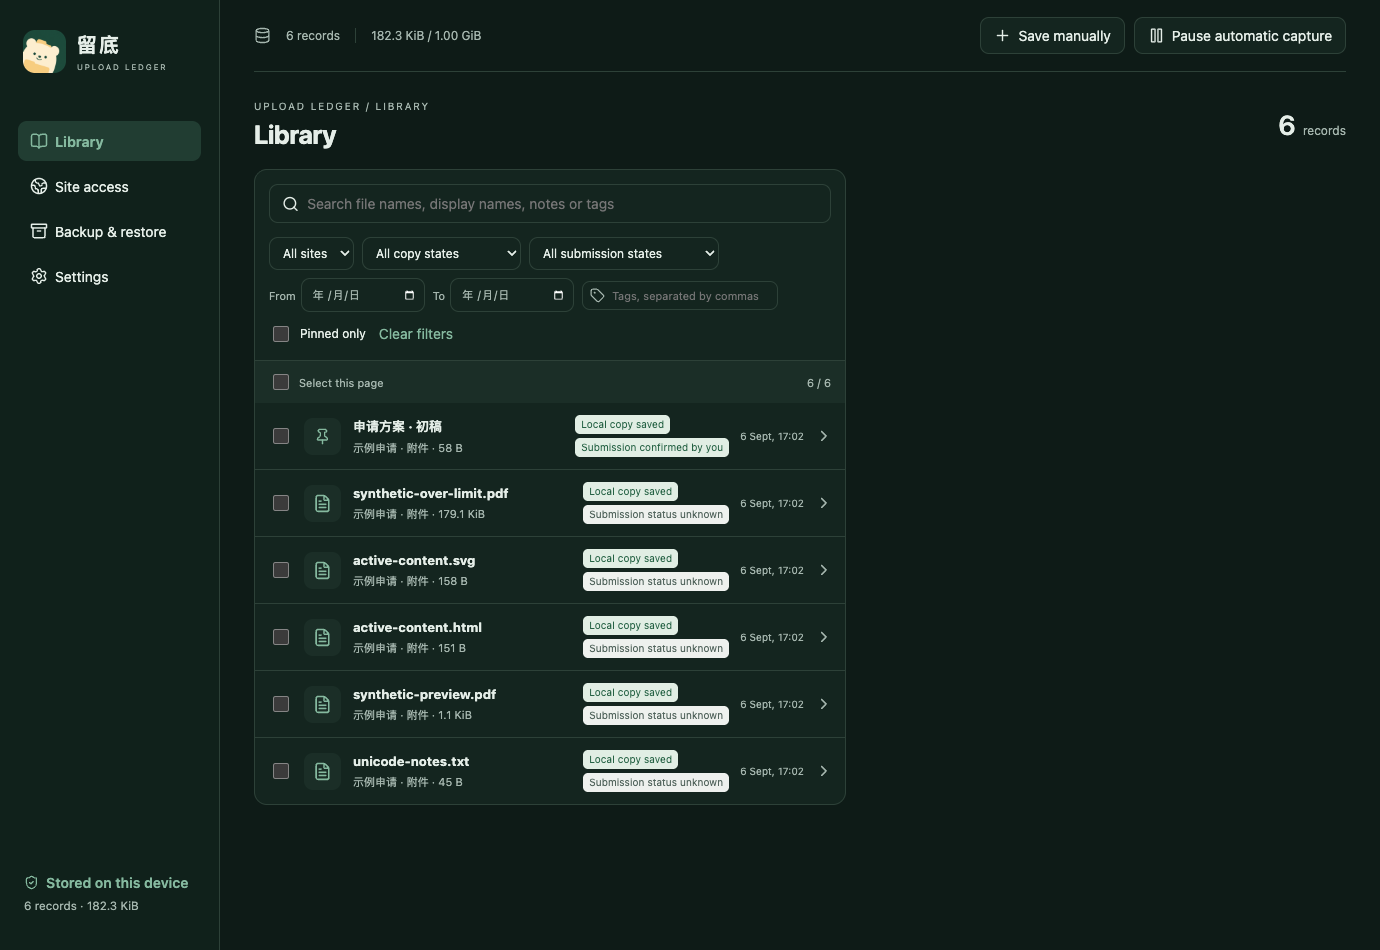
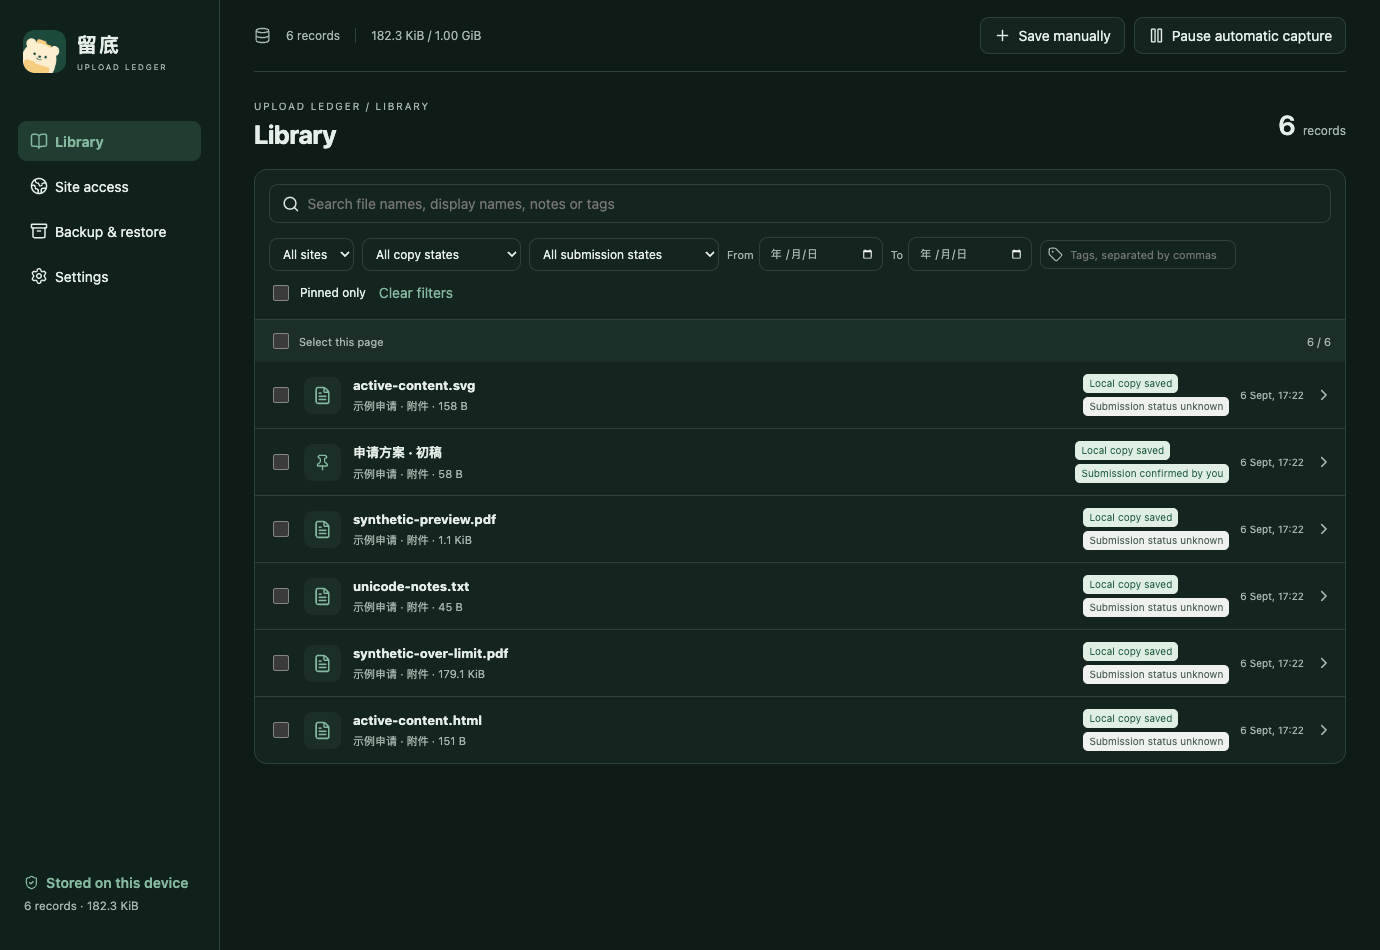
Preserve independent drafts across refreshes and verify concurrent UI edits

diff --git a/app/src/ui/Details.tsx b/app/src/ui/Details.tsx
@@ -273,37 +273,47 @@ export function Detail({
   );
   const [busy, setBusy] = useState(false);
   const [error, setError] = useState("");
-  const [dirty, setDirty] = useState(false);
-  const [draftRevision, setDraftRevision] = useState(record.revision);
-  const loadedId = useRef(record.recordId);
+  const dirty = useRef({ fields: false, submission: false });
+  const revisions = useRef({
+    fields: record.revision,
+    submission: record.revision,
+  });
+  const syncDraft = (next: StoredRecord) => {
+    if (!dirty.current.fields) {
+      setLabel(next.user.label || "");
+      setNote(next.user.note);
+      setTags(next.user.tags.join(", "));
+      setPinned(next.user.pinned);
+      revisions.current.fields = next.revision;
+    } else if (revisions.current.fields !== next.revision)
+      setError(t("draftConflict"));
+    if (!dirty.current.submission) {
+      setSubmission(next.submission.state);
+      revisions.current.submission = next.revision;
+    } else if (revisions.current.submission !== next.revision)
+      setError(t("draftConflict"));
+  };
   useEffect(() => {
-    if (loadedId.current !== record.recordId) {
-      loadedId.current = record.recordId;
-      setDirty(false);
-      setLabel(record.user.label || "");
-      setNote(record.user.note);
-      setTags(record.user.tags.join(", "));
-      setPinned(record.user.pinned);
-      setSubmission(record.submission.state);
-      setDraftRevision(record.revision);
-      return;
-    }
-    if (dirty) {
-      if (record.revision !== draftRevision) setError(t("changedError"));
-      return;
-    }
-    setLabel(record.user.label || "");
-    setNote(record.user.note);
-    setTags(record.user.tags.join(", "));
-    setPinned(record.user.pinned);
-    setSubmission(record.submission.state);
-    setDraftRevision(record.revision);
+    syncDraft(record);
   }, [record.recordId, record.revision]);
-  const perform = async (fn: () => Promise<unknown>, message?: string) => {
+  const perform = async (
+    kind: "fields" | "submission",
+    fn: () => Promise<StoredRecord>,
+    message?: string,
+  ) => {
     setBusy(true);
     setError("");
+    const expectedRevision = revisions.current[kind];
     try {
-      await fn();
+      const updated = await fn();
+      dirty.current[kind] = false;
+      // A successful local write can advance another local draft based on the
+      // same revision. A draft already stale before this write keeps its conflict.
+      const other = kind === "fields" ? "submission" : "fields";
+      if (revisions.current[other] === expectedRevision)
+        revisions.current[other] = updated.revision;
+      setError("");
+      syncDraft(updated);
       await onRefresh();
       if (message) announce(message);
     } catch (reason) {
@@ -365,6 +375,16 @@ export function Detail({
         <div className="alert error" role="alert">
           <CircleAlert size={17} />
           <span>{error}</span>
+          <button
+            disabled={busy}
+            onClick={() => {
+              dirty.current = { fields: false, submission: false };
+              syncDraft(record);
+              setError("");
+            }}
+          >
+            {t("reloadRecord")}
+          </button>
         </div>
       )}
       <div className="state-cards">
@@ -420,10 +440,12 @@ export function Detail({
         <h3>{t("updateSubmission")}</h3>
         <select
           aria-label={t("submitState")}
+          disabled={busy}
           value={submission}
-          onChange={(event) =>
-            setSubmission(event.target.value as SubmissionState)
-          }
+          onChange={(event) => {
+            dirty.current.submission = true;
+            setSubmission(event.target.value as SubmissionState);
+          }}
         >
           {(
             [
@@ -443,21 +465,24 @@ export function Detail({
           disabled={busy || submission === record.submission.state}
           onClick={() =>
             void perform(
-              () =>
-                command(
-                  "UI_SET_SUBMISSION",
-                  {
-                    records: [
-                      {
-                        recordId: record.recordId,
-                        expectedRevision: record.revision,
-                      },
-                    ],
-                    state: submission,
-                    note: null,
-                  },
-                  epoch,
-                ),
+              "submission",
+              async () =>
+                (
+                  await command<{ records: StoredRecord[] }>(
+                    "UI_SET_SUBMISSION",
+                    {
+                      records: [
+                        {
+                          recordId: record.recordId,
+                          expectedRevision: revisions.current.submission,
+                        },
+                      ],
+                      state: submission,
+                      note: null,
+                    },
+                    epoch,
+                  )
+                ).records[0],
               t("save"),
             )
           }
@@ -471,8 +496,13 @@ export function Detail({
           {t("label")}
           <input
             maxLength={120}
+            disabled={busy}
+            aria-label={t("label")}
             value={label}
-            onChange={(event) => setLabel(event.target.value)}
+            onChange={(event) => {
+              dirty.current.fields = true;
+              setLabel(event.target.value);
+            }}
           />
         </label>
         <label>
@@ -480,22 +510,36 @@ export function Detail({
           <textarea
             maxLength={4000}
             rows={4}
+            disabled={busy}
+            aria-label={t("note")}
             value={note}
-            onChange={(event) => setNote(event.target.value)}
+            onChange={(event) => {
+              dirty.current.fields = true;
+              setNote(event.target.value);
+            }}
           />
         </label>
         <label>
           {t("tags")}
           <input
+            disabled={busy}
+            aria-label={t("tags")}
             value={tags}
-            onChange={(event) => setTags(event.target.value)}
+            onChange={(event) => {
+              dirty.current.fields = true;
+              setTags(event.target.value);
+            }}
           />
         </label>
         <label className="check-row">
           <input
             type="checkbox"
+            disabled={busy}
             checked={pinned}
-            onChange={(event) => setPinned(event.target.checked)}
+            onChange={(event) => {
+              dirty.current.fields = true;
+              setPinned(event.target.checked);
+            }}
           />
           {t("pinned")}
         </label>
@@ -503,12 +547,13 @@ export function Detail({
           disabled={busy}
           onClick={() =>
             void perform(
+              "fields",
               () =>
-                command(
+                command<StoredRecord>(
                   "UI_SET_USER_FIELDS",
                   {
                     recordId: record.recordId,
-                    expectedRevision: record.revision,
+                    expectedRevision: revisions.current.fields,
                     fields: {
                       label: label.trim() || null,
                       note,

diff --git a/app/src/ui/i18n.ts b/app/src/ui/i18n.ts
@@ -194,7 +194,10 @@ export const zh = {
   fit: "适宽",
   page: "第",
   genericError: "操作没有完成。请刷新后重试；已保存资料保持原样。",
-  changedError: "记录已经更新，页面已刷新，请重新操作。",
+  changedError: "数据已更新，请核对最新状态后重试。",
+  draftConflict:
+    "记录已更新，当前编辑已保留。请复制需要保留的内容，再载入最新记录。",
+  reloadRecord: "放弃编辑并载入最新记录",
 } as const;
 
 export type MessageKey = keyof typeof zh;
@@ -403,7 +406,10 @@ export const en: Record<MessageKey, string> = {
   page: "Page",
   genericError:
     "The action did not complete. Refresh and retry; saved data remains unchanged.",
-  changedError: "The record changed. The view has refreshed; please retry.",
+  changedError: "The data changed. Check the latest state before retrying.",
+  draftConflict:
+    "This record changed. Your draft is preserved. Copy any edits you need before loading the latest record.",
+  reloadRecord: "Discard edits and load latest record",
 };
 
 export const dictionaries = { "zh-CN": zh, "en-GB": en } as const;

diff --git a/app/src/ui/style.css b/app/src/ui/style.css
@@ -427,6 +427,9 @@ input[type="checkbox"] {
   border-radius: 13px;
   overflow: hidden;
 }
+.library-pane:only-child {
+  grid-column: 1 / -1;
+}
 .search-row {
   display: flex;
   gap: 9px;
